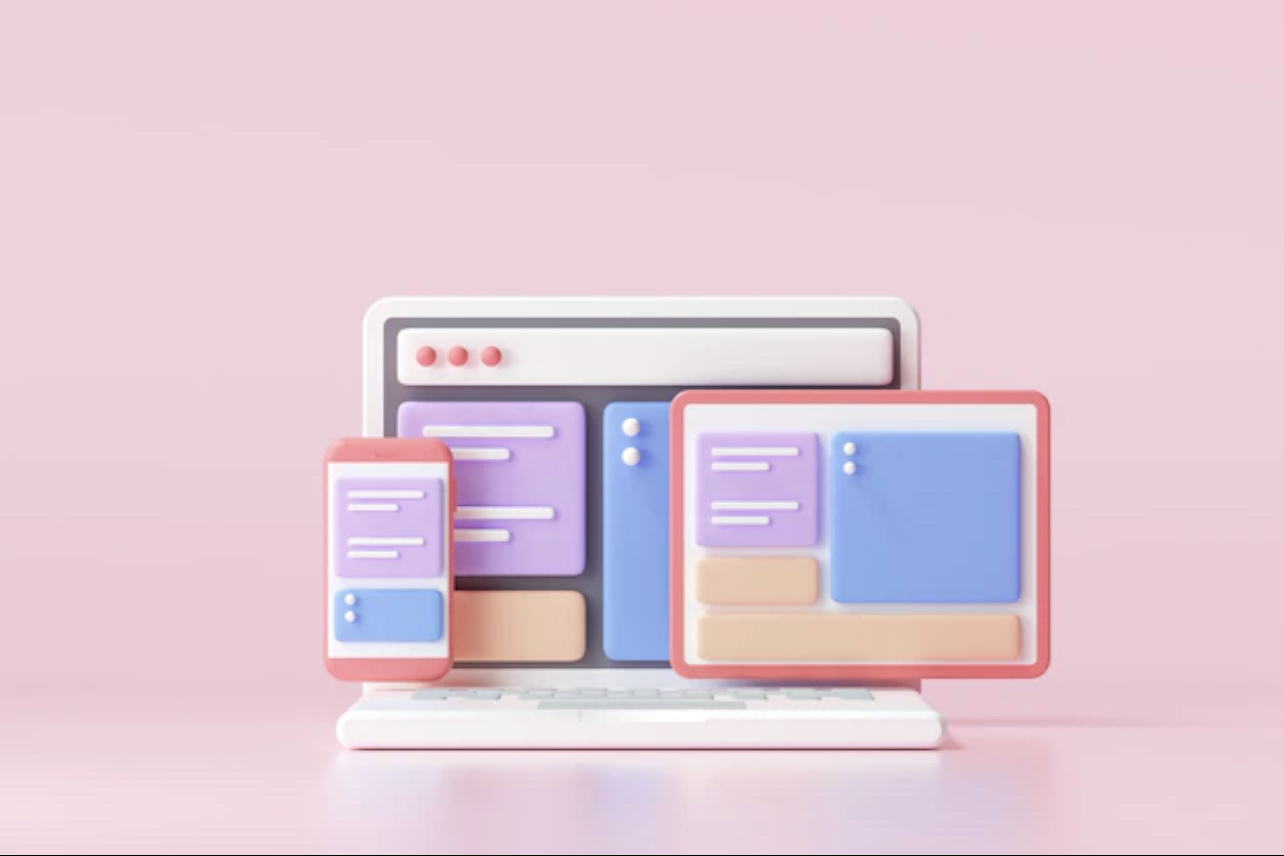
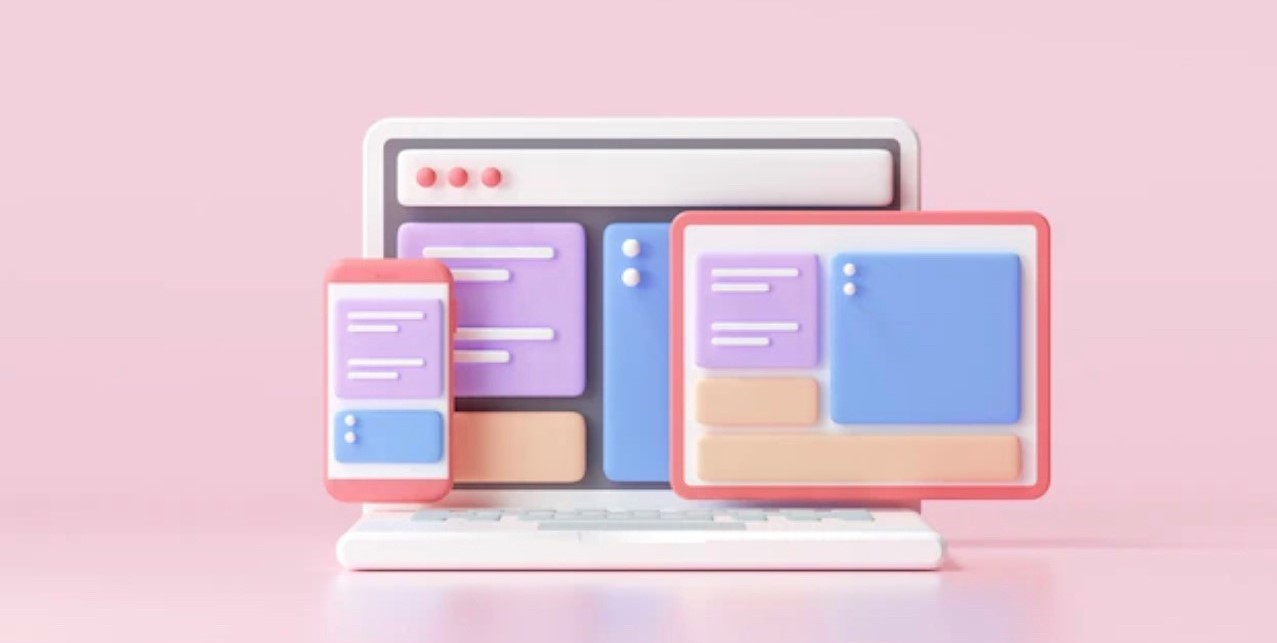
Hero Section and Background Image compelte

Changed region(s): [[0.2443, 0.1866, 0.8246, 0.8398], [0.0, 0.9953, 1.0, 1.0], [0.2749, 0.8398, 0.7635, 0.902]]

diff --git a/assets/css/style.css b/assets/css/style.css
@@ -33,10 +33,7 @@ header {
     position: -webkit-sticky;
     position: sticky;
     top: 0;
-    background-image: url("../images/Hero.jpg");
-    background-size: cover;
-    background-attachment: fixed;
-    background-position: 80%;
+    background-color: var(--footer-color);
     z-index: 9999;
 }
 
@@ -88,16 +85,32 @@ header nav ul li a:hover {
 }
 
 /* Hero Section */
-.hero-cta {
-    background-image: url("../images/Hero.jpg");
-    background-size: cover;
-    background-attachment: fixed;
-    background-position: 100%;
-    display: flex;
-    justify-content: center;
-    flex-wrap: wrap;
-    align-items: flex-start;
+.hero-section {
+    position: relative;
 }
+
+.img {
+    width: 100%;
+    max-height: auto;
+    object-fit: fill;
+    border-bottom: none;
+}
+
+.text-h2 {
+    font-size: 56px;
+    position: absolute;
+    bottom: 42px;
+    right: 16px;
+}
+
+.text-p {
+    font-size: 26px;
+    font-weight: lighter;
+    position: absolute;
+    bottom: 8px;
+    right: 16px;
+}
+
 
 /* About Me Section */
 

diff --git a/index.html b/index.html
@@ -40,8 +40,9 @@
         <!-- Hero Section / Background Image -->
         <section id="hero-section" class="hero-section">
             <div class="hero-cta">
-                <h2>Jeffrey Young</h2>
-                <p>
+                <img class="img" src="./assets/images/Hero.jpg" alt="Pink Background Graphic with Laptop, Phone and Tablet.">
+                <h2 class="text-h2">Jeffrey Young</h2>
+                <p class="text-p">
                     Full Stack Web Developer
                 </p>
             </div>
